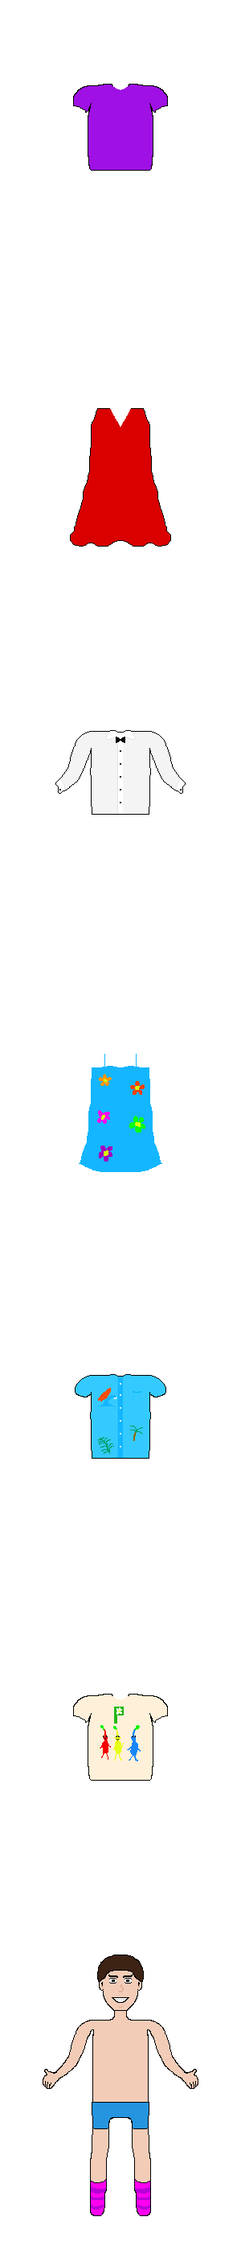
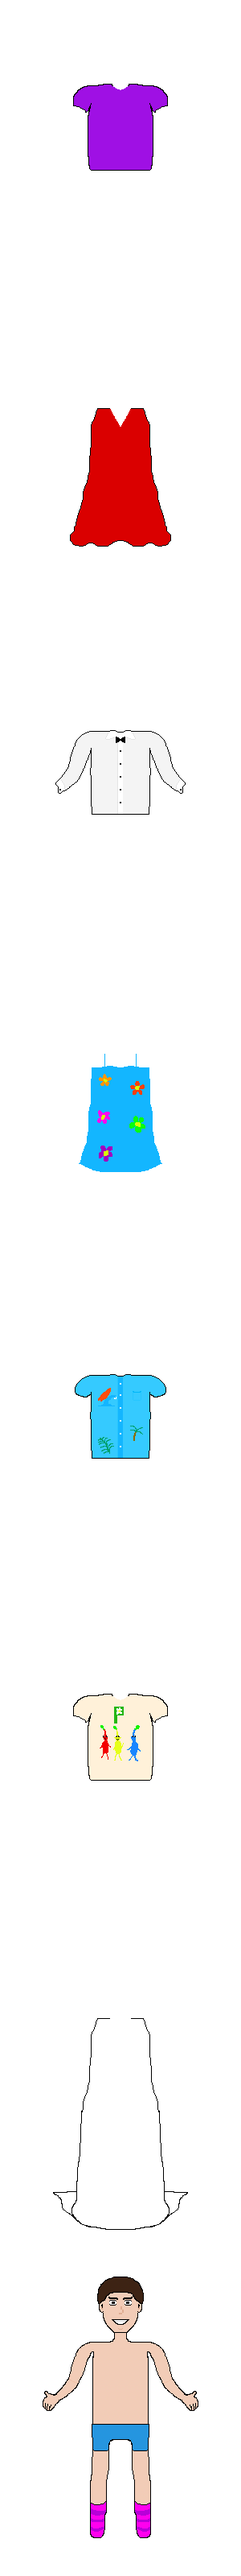
slayy dress up done

diff --git a/website/j-dress-up/game.js b/website/j-dress-up/game.js
@@ -126,6 +126,36 @@ class mainScene {
     this.pants1.on('pointerdown', () => {
       this.pantsOn(0)
     })
+
+    this.pants2 = this.add.image(80, 790, 'pants', 1).setOrigin(0.5, 0.5).setInteractive()
+    this.pants2.input.hitArea.setTo(20, 210, 200, 120)
+    this.pants2.on('pointerdown', () => {
+      this.pantsOn(1)
+    })
+
+    this.pants3 = this.add.image(80, 930, 'pants', 2).setOrigin(0.5, 0.5).setInteractive()
+    this.pants3.input.hitArea.setTo(20, 210, 200, 65)
+    this.pants3.on('pointerdown', () => {
+      this.pantsOn(2)
+    })
+
+    this.shoes1 = this.add.image(80, 930, 'shoes', 0).setOrigin(0.5, 0.5).setInteractive()
+    this.shoes1.input.hitArea.setTo(20, 320, 200, 40)
+    this.shoes1.on('pointerdown', () => {
+      this.shoesOn(0)
+    })
+
+    this.shoes3 = this.add.image(80, 980, 'shoes', 2).setOrigin(0.5, 0.5).setInteractive()
+    this.shoes3.input.hitArea.setTo(20, 320, 200, 40)
+    this.shoes3.on('pointerdown', () => {
+      this.shoesOn(2)
+    })
+
+    this.shoes5 = this.add.image(80, 1050, 'shoes', 4).setOrigin(0.5, 0.5).setInteractive()
+    this.shoes5.input.hitArea.setTo(20, 300, 200, 60)
+    this.shoes5.on('pointerdown', () => {
+      this.shoesOn(4)
+    })
     
     //right side//
     this.womanClothes = this.add.rectangle(625, 200, 200, 400, 0xff1afa)
@@ -165,6 +195,31 @@ class mainScene {
       this.shirtOn(3)
       this.currentShirt.depth = 1
     })
+
+    this.shirt7 = this.add.image(620, 600, 'shirts', 6).setOrigin(0.5, 0.5).setInteractive()
+    this.shirt7.input.hitArea.setTo(70, 100, 200, 270)
+    this.shirt7.on('pointerdown', () => {
+      this.shirtOn(6)
+      this.currentShirt.depth = 1
+    })
+
+    this.pants4 = this.add.image(620, 780, 'pants', 3).setOrigin(0.5, 0.5).setInteractive()
+    this.pants4.input.hitArea.setTo(20, 210, 200, 120)
+    this.pants4.on('pointerdown', () => {
+      this.pantsOn(3)
+    })
+
+    this.shoes2 = this.add.image(620, 800, 'shoes', 1).setOrigin(0.5, 0.5).setInteractive()
+    this.shoes2.input.hitArea.setTo(20, 320, 200, 40)
+    this.shoes2.on('pointerdown', () => {
+      this.shoesOn(1)
+    })
+
+    this.shoes4 = this.add.image(620, 900, 'shoes', 3).setOrigin(0.5, 0.5).setInteractive()
+    this.shoes4.input.hitArea.setTo(20, 300, 200, 60)
+    this.shoes4.on('pointerdown', () => {
+      this.shoesOn(3)
+    })
     //end clothes//
     
     this.man = this.add.image(350, 200, 'man').setOrigin(0.5, 0.5)
@@ -176,12 +231,13 @@ class mainScene {
     this.currentHat = this.add.image(350, 32, 'hats', 2).setOrigin(0.5, 0.5)
     this.currentShirt = this.add.image(350, 200, 'shirts', 2).setOrigin(0.5, 0.5)
     this.currentShirt.depth = -0.9
-    this.currentPants = this.add.image(350, 200, 'pants', 2).setOrigin(0.5, 0.5)
+    this.currentPants = this.add.image(350, 200, 'pants', 1).setOrigin(0.5, 0.5)
     this.currentPants.depth = -0.8
     this.currentShoes = this.add.image(350, 199, 'shoes', 2).setOrigin(0.5, 0.5)
+    this.currentShoes.depth = -0.85
 
     this.arrow = this.input.keyboard.createCursorKeys()
-    this.clothesSpeed = 2
+    this.clothesSpeed = 3
   
   }
   update() {
@@ -200,8 +256,19 @@ class mainScene {
       this.shirt4.y -= this.clothesSpeed
       this.shirt5.y -= this.clothesSpeed
       this.shirt6.y -= this.clothesSpeed
+      this.shirt7.y -= this.clothesSpeed
 
       this.pants1.y -= this.clothesSpeed
+      this.pants2.y -= this.clothesSpeed
+      this.pants3.y -= this.clothesSpeed
+      this.pants4.y -= this.clothesSpeed
+
+      this.shoes1.y -= this.clothesSpeed
+      this.shoes2.y -= this.clothesSpeed
+      this.shoes3.y -= this.clothesSpeed
+      this.shoes4.y -= this.clothesSpeed
+      this.shoes5.y -= this.clothesSpeed
+
     }else if(this.arrow.up.isDown && this.hat1.y < 25){
       this.hat1.y += this.clothesSpeed
       this.hat2.y += this.clothesSpeed
@@ -216,8 +283,18 @@ class mainScene {
       this.shirt4.y += this.clothesSpeed
       this.shirt5.y += this.clothesSpeed
       this.shirt6.y += this.clothesSpeed
+      this.shirt7.y += this.clothesSpeed
 
       this.pants1.y += this.clothesSpeed
+      this.pants2.y += this.clothesSpeed
+      this.pants3.y += this.clothesSpeed
+      this.pants4.y += this.clothesSpeed
+
+      this.shoes1.y += this.clothesSpeed
+      this.shoes2.y += this.clothesSpeed
+      this.shoes3.y += this.clothesSpeed
+      this.shoes4.y += this.clothesSpeed
+      this.shoes5.y += this.clothesSpeed
     }
     
 
@@ -245,6 +322,7 @@ class mainScene {
   shoesOn(index){
     this.currentShoes.destroy()
     this.currentShoes = this.add.image(350, 200, 'shoes', index).setOrigin(0.5, 0.5)
+    this.currentShoes.depth = -0.85
   }
 
 }
